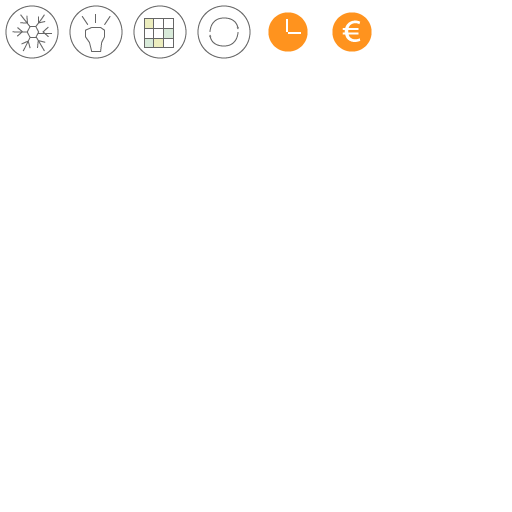
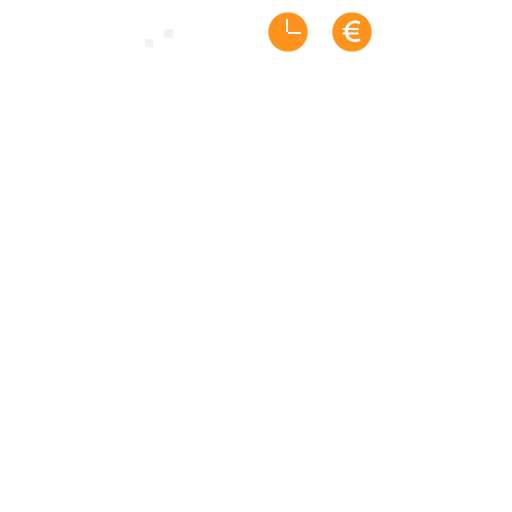
Basic theming support.

Changed region(s): [[0.0, 0.0, 0.5, 0.125]]

diff --git a/MatchTwo/MTTheme.m b/MatchTwo/MTTheme.m
@@ -1,0 +1,99 @@
+//
+//  MTTheme.m
+//  MatchTwo
+//
+//  Created by  on 11-10-9.
+//  Copyright (c) 2011年 StupidTent co. All rights reserved.
+//
+
+#import "MTTheme.h"
+#import "GameConfig.h"
+
+@implementation MTTheme
+
+static ccColor3B primaryColor;
+static ccColor3B foregroundColor;
+static ccColor3B backgroundColor;
+
+static NSString * backgroundLeft;
+static NSString * backgroundRight;
+
+#define kMTColorSpring ccc3(123, 169, 13)
+#define kMTColorSummer ccc3(255, 167, 23)
+#define kMTColorAutumn ccc3(251, 132, 14)
+#define kMTColorWinter ccc3(203, 218, 226)
+#define kMTColorDefault ccc3(247, 147, 30)
+
+#define kMTBackgroundSpringLeft @"Background_Spring_Left.png"
+#define kMTBackgroundSummerLeft @"Background_Summer_Left.png"
+#define kMTBackgroundAutumnLeft @"Background_Autumn_Left.png"
+#define kMTBackgroundWinterLeft @"Background_Winter_Left.png"
+
+#define kMTBackgroundSpringRight @"Background_Spring_Right.png"
+#define kMTBackgroundSummerRight @"Background_Summer_Right.png"
+#define kMTBackgroundAutumnRight @"Background_Autumn_Right.png"
+#define kMTBackgroundWinterRight @"Background_Winter_Right.png"
+
+#define kMTBackgroundDefaultLeft @"Background_Left.png"
+#define kMTBackgroundDefaultRight @"Background_Right.png"
+
++ (ccColor3B)primaryColor{
+    return primaryColor;
+}
+
++ (ccColor3B)foregroundColor{
+    return foregroundColor;
+}
+
++ (ccColor3B)backgroundColor{
+    return backgroundColor;
+}
+
++ (NSString *)backgroundLeft{
+    return backgroundLeft;
+}
+
++ (NSString *)backgroundRight{
+    return backgroundRight;
+}
+
++ (void)setTheme:(MTThemeConfig)config{
+    foregroundColor = kMTColorActive;
+    backgroundColor = kMTColorInactive;    
+    switch (config) {
+        case kMTThemeSpring:
+            primaryColor = kMTColorSpring;
+            backgroundLeft = kMTBackgroundSpringLeft;
+            backgroundRight = kMTBackgroundSpringRight; 
+            // Because the bkg is more black than white
+            foregroundColor = kMTColorInactive;
+            backgroundColor = kMTColorActive;
+            break;
+        case kMTThemeSummer:
+            primaryColor = kMTColorSummer;
+            backgroundLeft = kMTBackgroundSummerLeft;
+            backgroundRight = kMTBackgroundSummerRight;            
+            break;
+        case kMTThemeAutumn:
+            primaryColor = kMTColorAutumn;
+            backgroundLeft = kMTBackgroundAutumnLeft;
+            backgroundRight = kMTBackgroundAutumnRight;
+            break;
+        case kMTThemeWinter:
+            primaryColor = kMTColorWinter;
+            backgroundLeft = kMTBackgroundWinterLeft;
+            backgroundRight = kMTBackgroundWinterRight;
+        case kMTThemeDefault:
+        default:
+            primaryColor = kMTColorDefault;
+            backgroundLeft = kMTBackgroundDefaultLeft;
+            backgroundRight = kMTBackgroundDefaultRight;
+            break;
+    }
+}
+
++ (MTThemeConfig)randomConfig{
+    return rand()%4;
+}
+
+@end

diff --git a/MatchTwo/MTPausePage.m b/MatchTwo/MTPausePage.m
@@ -8,6 +8,7 @@
 
 #import "MTPausePage.h"
 #import "MTGame.h"
+#import "MTTheme.h"
 
 @interface MTPausePage ()
 - (void)addBackground;
@@ -23,7 +24,7 @@
 
 - (void)addBackground{
     CGSize winSize = [[CCDirector sharedDirector] winSize];        
-    CCSprite * image = [CCSprite spriteWithFile:@"Background_Left.png"];
+    CCSprite * image = [CCSprite spriteWithFile:[MTTheme backgroundLeft]];
     image.position = ccp(winSize.width/2, winSize.height/2);
     [self addChild:image];
 }
@@ -40,7 +41,7 @@
                                             fontSize:kMTFontSizeCaption];
     level.position = ccp(260, 1024-340);
     level.anchorPoint = ccp(1,0);
-    level.color = kMTColorPrimary;
+    level.color = [MTTheme primaryColor];
     [self addChild:level];
     
     // Next Level Unlock
@@ -57,13 +58,14 @@
                                              fontSize:kMTFontSizeSmall];
     unlock.position = ccp(477, 1024 - 255);
     unlock.anchorPoint = ccp(0,1);
-    unlock.color = kMTColorInactive;
+    unlock.color = [MTTheme backgroundColor];
     [self addChild:unlock];    
     
     
     CCSprite * unlockBadge = [[MTSharedManager instance] nextLevelUnlockBadge];
     unlockBadge.position = ccp(410, 1024 - 300);
     unlockBadge.anchorPoint = ccp(0,0);
+    unlockBadge.color = [MTTheme primaryColor];
     [self addChild:unlockBadge];
     
     // Remaining Time
@@ -77,7 +79,7 @@
                                            fontSize:kMTFontSizeLarge];
     time.position = ccp(250, 1024-480);
     time.anchorPoint = ccp(1,0);
-    time.color = kMTColorPrimary;
+    time.color = [MTTheme primaryColor];
     [self addChild:time];
     
     // Level Objective
@@ -91,7 +93,7 @@
                                           fontSize:kMTFontSizeSmall];
     obj.position = ccp(477, 1024 - 455);
     obj.anchorPoint = ccp(0,0);
-    obj.color = kMTColorInactive;
+    obj.color = [MTTheme backgroundColor];
     [self addChild:obj];
     
     CCLabelTTF * objStatus = [CCLabelTTF labelWithString:@""
@@ -128,12 +130,13 @@
                                           block:^(id sender){
                                               [[MTSharedManager instance] replaceSceneWithID:0];}],                         
                  nil];
-    stamp = [CCSprite spriteWithFile:@"Stamp_Pause.png"];    
+    stamp = [CCSprite spriteWithFile:@"Stamp_Pause.png"];
+    [stamp setColor:[MTTheme primaryColor]];
 }
 
 - (void)setupMenus{    
     for (CCMenuItemFont * child in menu.children) {
-        child.color = kMTColorActive;
+        child.color = [MTTheme foregroundColor];
     }
     [menu alignItemsVerticallyWithPadding:kMTMenuPadding];
     menu.position = ccp(560, 1024-775);
@@ -156,7 +159,7 @@
 - (void)addLabel:(CCLabelTTF *)child at:(CGPoint)p{
     child.position = p;
     child.anchorPoint = ccp(0,0);
-    child.color = kMTColorInactive;
+    child.color = [MTTheme backgroundColor];
     [self addChild:child];
 }
 

diff --git a/MatchTwo/MTScoreDisplay.m b/MatchTwo/MTScoreDisplay.m
@@ -43,7 +43,7 @@
                                    fontName:kMTFontNumbers
                                    fontSize:kMTFontSizeCaption];
         level.position = ccp(0, -20.0f);
-        level.color = kMTColorPrimary;
+        level.color = [MTTheme primaryColor];
         [self addChild:level z:1];
         level.anchorPoint = ccp(0.0, 0.0);
         
@@ -54,7 +54,7 @@
                                    fontName:kMTFontSmallNumbers
                                    fontSize:kMTFontSizeSmall];
         score.position = ccp(kMTScoreBarWidth, 0.0f);
-        score.color = kMTColorActive;
+        score.color = [MTTheme foregroundColor];
         score.anchorPoint = ccp(1.0, 0.0);
         [self addChild:score z:1];
         
@@ -75,7 +75,7 @@
     if ([game isAbilityActive:kMTAbilityDoubleScore]) {
         score.color = kMTColorBuff;
     }else{
-        score.color = kMTColorActive;
+        score.color = [MTTheme foregroundColor];
     }
 }
 
@@ -83,9 +83,9 @@
     [super draw];
     
     // Draw Baseline
-    glColor4f(kMTColorInactive.r/255.0,
-              kMTColorInactive.g/255.0,
-              kMTColorInactive.b/255.0,
+    glColor4f([MTTheme backgroundColor].r/255.0,
+              [MTTheme backgroundColor].g/255.0,
+              [MTTheme backgroundColor].b/255.0,
               1.0);
     glLineWidth(1.0); 
     CGPoint baseLine[2] = {
@@ -95,9 +95,9 @@
     ccDrawLine(baseLine[0], baseLine[1]);
     
     // Draw Overlay
-    glColor4f(kMTColorPrimary.r/255.0,
-              kMTColorPrimary.g/255.0,
-              kMTColorPrimary.b/255.0,
+    glColor4f([MTTheme primaryColor].r/255.0,
+              [MTTheme primaryColor].g/255.0,
+              [MTTheme primaryColor].b/255.0,
               1.0);
     glLineWidth(3.0);
     CGPoint overLay[2] = {

diff --git a/MatchTwo/MTAbilityButton.m b/MatchTwo/MTAbilityButton.m
@@ -33,12 +33,14 @@ const uint32_t	kMTAbilityButtonZoomActionTag = 0xe0c05002;
         sprite = [MTAbilityButton spriteForButtonName:name];
         sprite.position = ccp(kMTAbilityButtonSize/2, kMTAbilityButtonSize/2);    
         sprite.scale = kMTAbilityButtonSize/kMTAbilityButtonSpriteSize;
+        sprite.color = [MTTheme foregroundColor];
         [self addChild:sprite z:-1];
         
         disabledSprite = [MTAbilityButton disabledSpriteForButtonName:name];
         disabledSprite.position = ccp(kMTAbilityButtonSize/2, kMTAbilityButtonSize/2);    
         disabledSprite.scale = kMTAbilityButtonSize/kMTAbilityButtonSpriteSize;
         disabledSprite.visible = NO;
+        disabledSprite.color = [MTTheme backgroundColor];        
         [self addChild:disabledSprite z:-1];        
 
     }
@@ -81,9 +83,9 @@ const uint32_t	kMTAbilityButtonZoomActionTag = 0xe0c05002;
         return;
     }
     glLineWidth(1.0);
-    glColor4f(kMTColorActive.r/255.0,
-              kMTColorActive.g/255.0,
-              kMTColorActive.b/255.0,
+    glColor4f([MTTheme foregroundColor].r/255.0,
+              [MTTheme foregroundColor].g/255.0,
+              [MTTheme foregroundColor].b/255.0,
               0.6);
     
     // Stroke Once with AA Outside

diff --git a/MatchTwo/MTPiece.m b/MatchTwo/MTPiece.m
@@ -53,6 +53,7 @@ CGRect rectForType(int type){
         self.ability = @"";
         self.contentSize = CGSizeMake(kMTPieceSize, kMTPieceSize);        
         self.anchorPoint = ccp(0.5, 0.5);         
+        self.color = [MTTheme foregroundColor];
     }
     return self;
 }
@@ -71,7 +72,10 @@ CGRect rectForType(int type){
         glColor4f(1.0, (50 + type*20)/255.0, 0.32, 0.5);
         ccDrawPolyFill(points, 4, YES);
     }else{
-        glColor4f(0.6, 0.6, 0.6, 1.0);
+        glColor4f([MTTheme backgroundColor].r/255.0,
+                  [MTTheme backgroundColor].g/255.0,
+                  [MTTheme backgroundColor].b/255.0,
+                  1.0);
         glLineWidth(1.0);
         ccDrawPoly(points, 4, YES);        
     }    

diff --git a/MatchTwo/MTTheme.h b/MatchTwo/MTTheme.h
@@ -1,0 +1,33 @@
+//
+//  MTTheme.h
+//  MatchTwo
+//
+//  Created by  on 11-10-9.
+//  Copyright (c) 2011年 StupidTent co. All rights reserved.
+//
+
+#import <Foundation/Foundation.h>
+#import "ccTypes.h"
+#import "CCSprite.h"
+
+typedef enum{
+    kMTThemeDefault = 0,
+    kMTThemeSpring = 1,
+    kMTThemeSummer = 2,
+    kMTThemeAutumn = 3,
+    kMTThemeWinter = 4,
+}MTThemeConfig;
+
+@interface MTTheme : NSObject
+
++ (ccColor3B)primaryColor;
++ (ccColor3B)foregroundColor;
++ (ccColor3B)backgroundColor;
+
++ (NSString *)backgroundLeft;
++ (NSString *)backgroundRight;
+
++ (void)setTheme:(MTThemeConfig)config;
++ (MTThemeConfig)randomConfig;
+
+@end

diff --git a/MatchTwo/MTGame.m b/MatchTwo/MTGame.m
@@ -71,6 +71,9 @@
 - (void) prepare{
     paused = NO;
     
+    // Set Theme
+    [MTTheme setTheme:[MTTheme randomConfig]];
+    
     // Initialization code here.
     NSDictionary * dic = [[MTSharedManager instance] settingsForLevelID:levelID];
     
@@ -136,7 +139,7 @@
     
     CCMenuItemFont * pauseButton = [CCMenuItemFont itemFromString:@"暂停" target:self selector:@selector(pause)];
     pauseButton.position = ccp(700, 50);
-    pauseButton.color = kMTColorActive;
+    pauseButton.color = [MTTheme foregroundColor];
     
     buttons = [CCMenu menuWithItems:pauseButton, nil];
     buttons.position = ccp(0,0);

diff --git a/MatchTwo/MTBackground.m b/MatchTwo/MTBackground.m
@@ -8,6 +8,7 @@
 
 #import "MTBackground.h"
 #import "MTSFX.h"
+#import "MTTheme.h"
 
 @implementation MTBackground
 
@@ -16,7 +17,7 @@
     if (self) {
         //[self addChild:[[[MTParticleLoopingStar alloc]init]autorelease]];
         CGSize winSize = [[CCDirector sharedDirector] winSize];        
-        CCSprite * image = [CCSprite spriteWithFile:@"Background_Right.png"];
+        CCSprite * image = [CCSprite spriteWithFile:[MTTheme backgroundRight]];
         image.position = ccp(winSize.width/2, winSize.height/2);
         [self addChild:image];
 

diff --git a/MatchTwo/GameConfig.h b/MatchTwo/GameConfig.h
@@ -8,7 +8,7 @@
 
 #import "ccTypes.h"
 #import "CCSprite+RectForIndex.h"
-
+#import "MTTheme.h"
 
 #ifndef __GAME_CONFIG_H
 #define __GAME_CONFIG_H
@@ -137,7 +137,6 @@ typedef enum {
 
 // Color Definitions
 
-static const ccColor3B kMTColorPrimary = {247, 147, 30};
 static const ccColor3B kMTColorActive = {102, 102, 102};
 static const ccColor3B kMTColorInactive = {153, 153, 153};
 static const ccColor3B kMTColorBuff = {112, 158, 39};

diff --git a/MatchTwo/MTTimeDisplay.m b/MatchTwo/MTTimeDisplay.m
@@ -27,7 +27,7 @@
     }else if (seconds <= 30){
         self.color = kMTColorDebuff;
     }else{
-        self.color = kMTColorPrimary;
+        self.color = [MTTheme primaryColor];
     }    
 
 }
